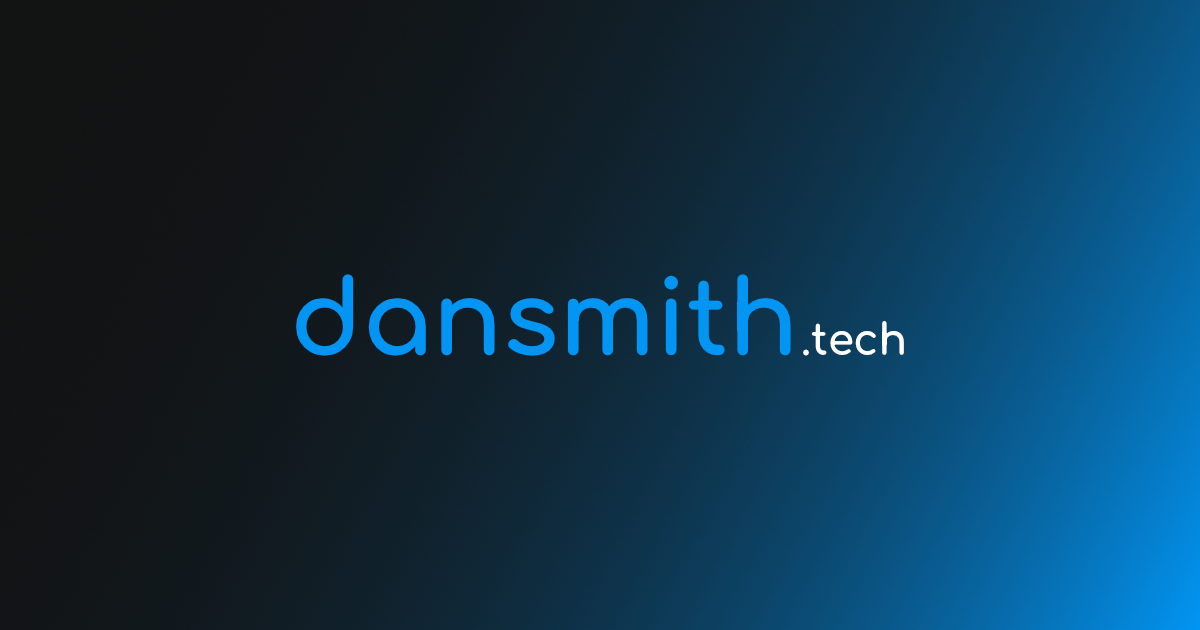
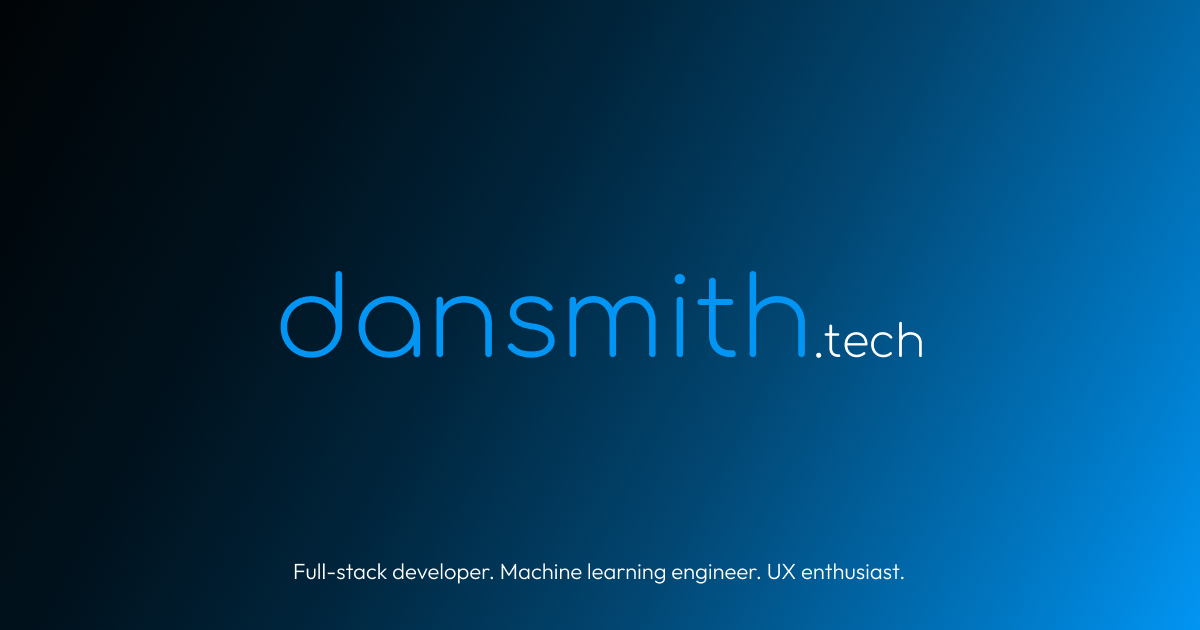
Improve styles, opengraph image, check if JS is enabled

diff --git a/app/page.tsx b/app/page.tsx
@@ -74,7 +74,7 @@ export default function Landing() {
 				</div>
 			</section>
 			<Section
-				subheading={"ABOUT"}
+				subheading={"about"}
 				heading={"UX is my passion, programming is my hobby."}
 			>
 				<div className={"container-content"}>
@@ -85,7 +85,7 @@ export default function Landing() {
 				</div>
 			</Section>
 			<Section
-				subheading={"PROJECTS"}
+				subheading={"projects"}
 				heading={"Talk is cheap. Let's get to the good stuff."}
 			>
 				{projectsContent.map((project, i) => (
@@ -100,7 +100,7 @@ export default function Landing() {
 				))}
 			</Section>
 			<Section
-				subheading={"EXPERIENCE"}
+				subheading={"experience"}
 				heading={"I focus on the learning, not the finishing."}
 			>
 				<div className={"container-content"}>
@@ -115,7 +115,7 @@ export default function Landing() {
 				</div>
 			</Section>
 			<Section
-				subheading={"CONTACT"}
+				subheading={"contact"}
 				heading={"Let's connect, and get in touch."}
 			>
 				<div className={"container-content"}>

diff --git a/content/seo.ts b/content/seo.ts
@@ -1,6 +1,6 @@
 export const defaultSeo = {
-	title: "Dan Smith • Machine Learning and UX Developer",
+	title: "Dan Smith • Full-Stack, Machine Learning, and UX Developer",
 	description:
 		"I create minimalist, modern, and enjoyable experiences. I believe the best UX exists where the least UI does, so the UI that does exist must be outstanding.",
-	image: "https://www.dansmith.tech/images/open-graph/index.png",
+	image: "https://www.dansmith.tech/images/opengraph/index.png",
 };

diff --git a/app/layout.tsx b/app/layout.tsx
@@ -27,6 +27,12 @@ export default function RootLayout({
 	return (
 		<html lang="en">
 			<body className={font.className}>
+				<noscript>
+					<p className="noscript">
+						JavaScript is not enabled in your browser. Please allow
+						JavaScript to run in order to properly explore my portfolio :)
+					</p>
+				</noscript>
 				<Root>{children}</Root>
 			</body>
 		</html>

diff --git a/app/globals.css b/app/globals.css
@@ -41,6 +41,17 @@ body * {
 	font-family: inherit;
 }
 
+.noscript {
+	padding: 1.5em;
+	position: fixed !important;
+	inset: 0;
+	display: flex;
+	align-items: center;
+	z-index: 9999 !important;
+	background-color: var(--color-secondary);
+	justify-content: center;
+}
+
 .front {
 	z-index: 2;
 }

diff --git a/components/Skills.module.css b/components/Skills.module.css
@@ -9,10 +9,13 @@
 	height: 18em;
 	display: flex;
 	position: sticky;
-
 	overflow-y: hidden;
 	padding-right: 1em;
 	transform: translateX(1em);
+	opacity: 0;
+	transition-property: opacity;
+	transition-duration: var(--animation-duration);
+	transition-timing-function: ease-in-out;
 }
 
 .list {

diff --git a/components/Skills.tsx b/components/Skills.tsx
@@ -80,6 +80,8 @@ export default function Skills({
 
 		element.current!.style.top =
 			(window.innerHeight - element.current!.clientHeight) / 2 + "px";
+
+		element.current!.style.opacity = "1";
 	}
 
 	useEffect(() => {

diff --git a/components/Occupations.module.css b/components/Occupations.module.css
@@ -20,7 +20,7 @@
 	display: flex;
 	align-items: center;
 	font-size: inherit;
-	font-weight: 700;
+	font-weight: 500;
 	margin: 0;
 	transition-property: opacity, color;
 	transition-duration: 350ms;

diff --git a/components/form/Button.module.css b/components/form/Button.module.css
@@ -6,7 +6,7 @@
 	border-radius: var(--border-radius);
 	border: none;
 	font-size: 1.15rem;
-	font-weight: 700;
+	font-weight: 600;
 	flex-grow: 0;
 	position: relative;
 	cursor: pointer;

diff --git a/components/Section.module.css b/components/Section.module.css
@@ -10,6 +10,7 @@
 	margin-bottom: 1.85em;
 	color: var(--color-primary);
 	letter-spacing: 0.015rem;
+	text-transform: uppercase;
 }
 
 .heading {

diff --git a/app/page.module.css b/app/page.module.css
@@ -37,7 +37,7 @@
 }
 
 .roles span {
-	font-weight: 600;
+	font-weight: 500;
 }
 
 .container-button {
